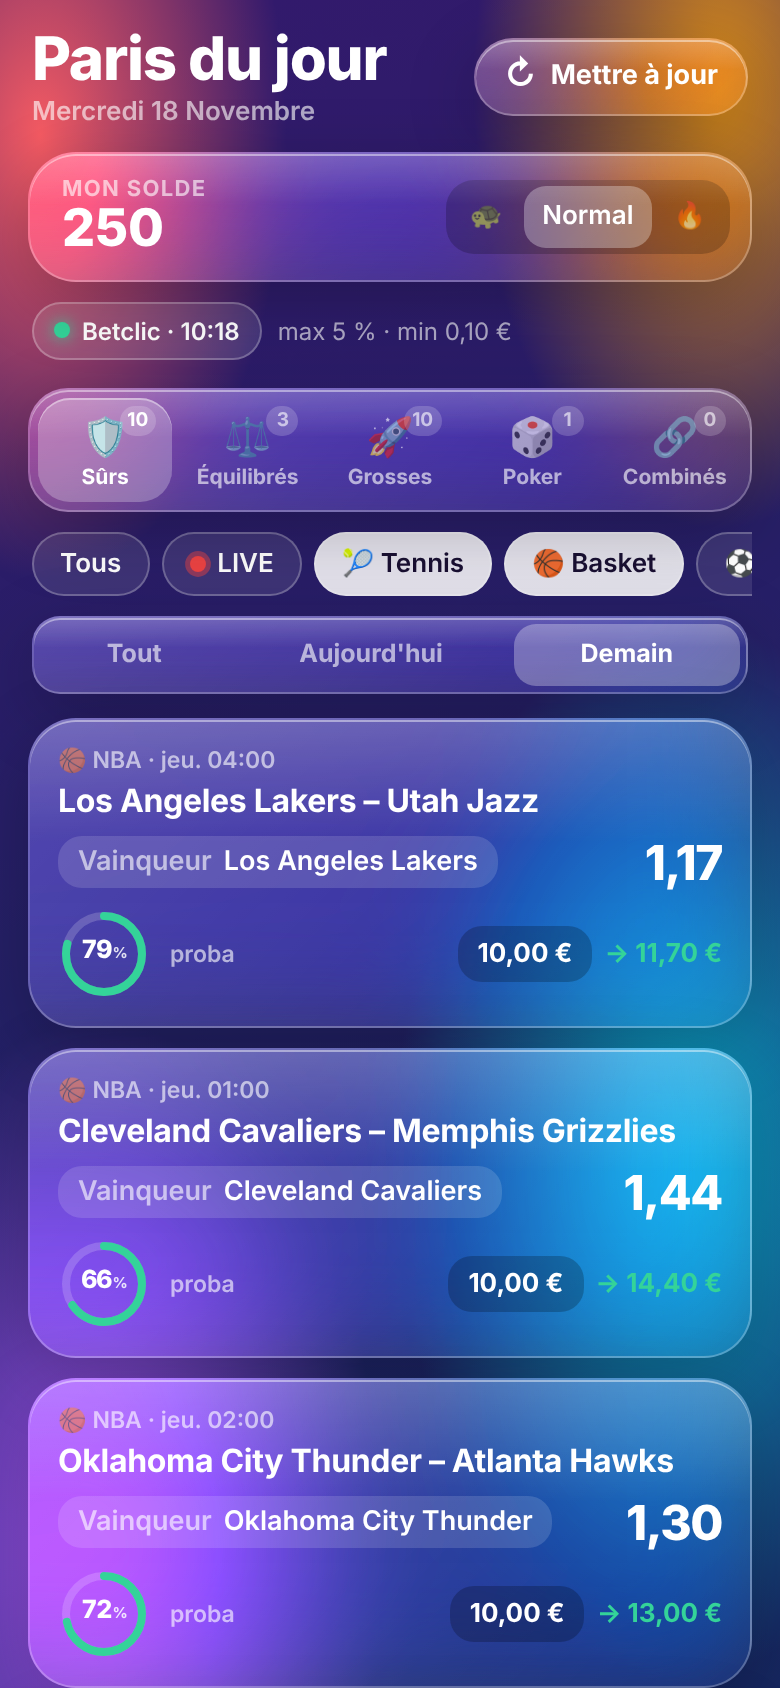
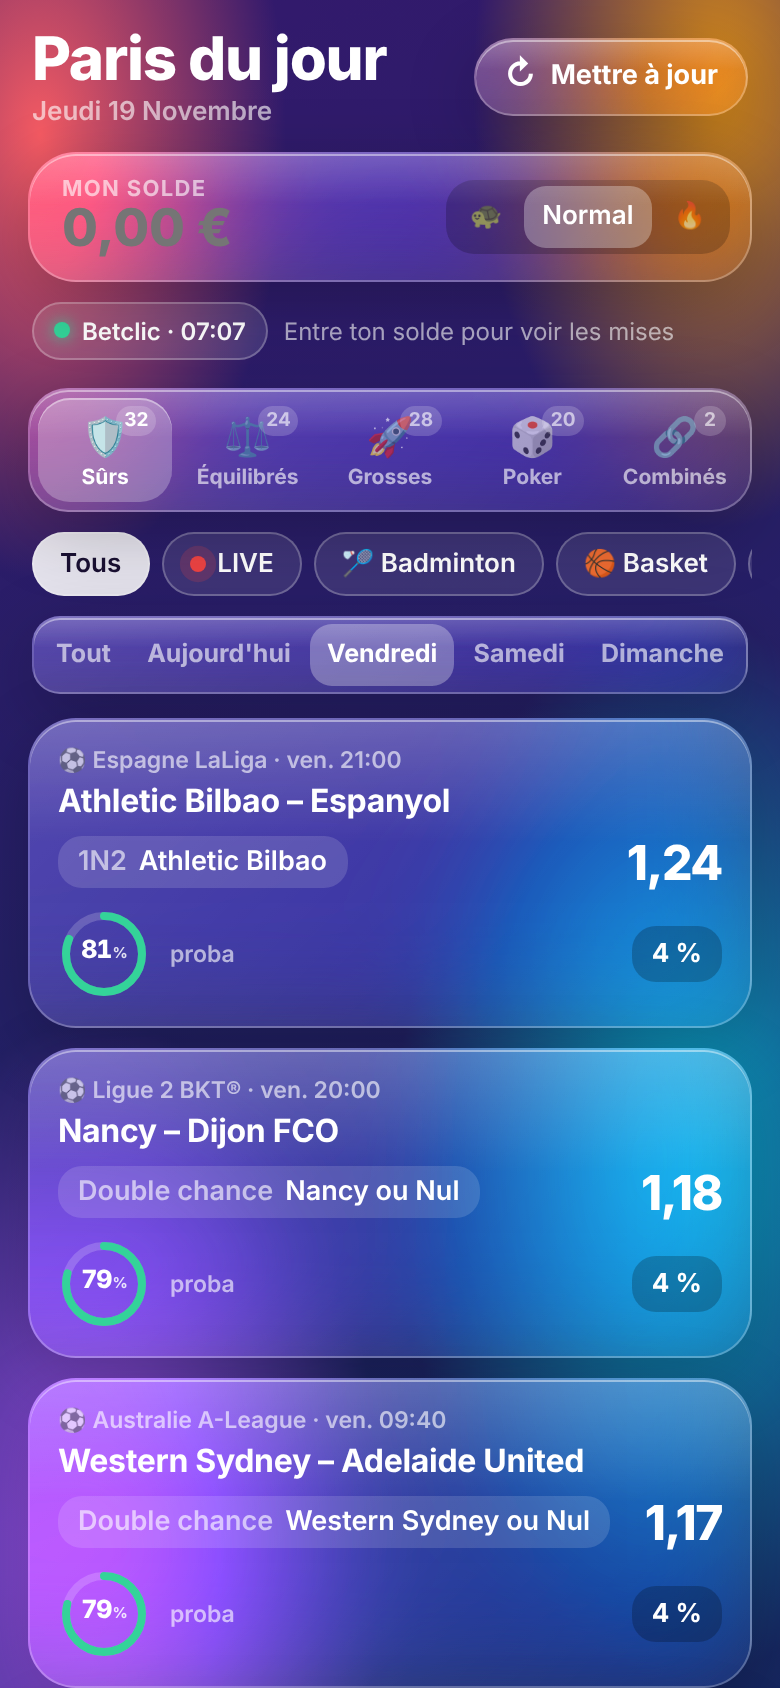
Puces dates ajustées, sport badminton

diff --git a/index.html b/index.html
@@ -76,7 +76,7 @@ h1{font-size:30px;letter-spacing:-.02em;margin:0;font-weight:800}
 .chip.live.on i{background:#fff}
 @keyframes pulse{0%{box-shadow:0 0 0 0 rgba(239,68,68,.7)}70%{box-shadow:0 0 0 7px rgba(239,68,68,0)}100%{box-shadow:0 0 0 0 rgba(239,68,68,0)}}
 .dates{display:flex;gap:2px;padding:3px;border-radius:14px;margin:0 2px 12px;overflow-x:auto;scrollbar-width:none}.dates::-webkit-scrollbar{display:none}
-.dates button{flex:1 0 auto;border:0;background:transparent;color:var(--muted);font-family:inherit;font-size:12.5px;font-weight:700;padding:8px 10px;border-radius:11px;cursor:pointer;white-space:nowrap}
+.dates button{flex:1 0 auto;border:0;background:transparent;color:var(--muted);font-family:inherit;font-size:12.5px;font-weight:700;padding:8px 7px;border-radius:11px;cursor:pointer;white-space:nowrap}
 .dates button.on{background:rgba(255,255,255,.3);color:#fff}
 .dates.off{opacity:.45;pointer-events:none}
 .tab{position:relative}.tab .n{position:absolute;top:4px;right:8px;min-width:16px;padding:0 4px;border-radius:8px;background:rgba(255,255,255,.18);font-size:9.5px;line-height:15px}
@@ -165,7 +165,7 @@ details ul{padding-left:18px;margin:6px 0}
 
 <script>
 const PCT={safe:4,bal:2.5,big:1,poker:0.5}, COL={safe:'var(--safe)',bal:'var(--bal)',big:'var(--big)',poker:'var(--poker)',combo:'var(--combo)'};
-const SP={football:'⚽',basketball:'🏀',tennis:'🎾',rugby_union:'🏉',rugby:'🏉'};
+const SP={football:'⚽',basketball:'🏀',tennis:'🎾',rugby_union:'🏉',rugby:'🏉',badminton:'🏸',handball:'🤾',ice_hockey:'🏒',volleyball:'🏐'};
 const MAX_PCT=5, MIN_STAKE=0.10, PAGE=10;
 const $=s=>document.querySelector(s);
 const eur=v=>v.toLocaleString('fr-FR',{style:'currency',currency:'EUR'});
@@ -261,8 +261,8 @@ function comboCard(c){
 }
 window.tog=(e,el)=>{if(e.target.closest('a'))return;el.classList.toggle('open')};
 
-const DUR={football:120,basketball:140,tennis:200,rugby_union:110,rugby:110};
-const LBL={football:'Foot',basketball:'Basket',tennis:'Tennis',rugby_union:'Rugby'};
+const DUR={football:120,basketball:140,tennis:200,rugby_union:110,rugby:110,badminton:70,handball:100,ice_hockey:150,volleyball:120};
+const LBL={football:'Foot',basketball:'Basket',tennis:'Tennis',rugby_union:'Rugby',badminton:'Badminton',handball:'Hand',ice_hockey:'Hockey',volleyball:'Volley'};
 const dayKey=d=>new Date(d).toLocaleDateString('fr-CA',{timeZone:'Europe/Paris'});
 function liveState(m,now){
   const st=new Date(m.start).getTime(), inWin=st<=now&&now<st+(DUR[m.sport]||120)*6e4, e=LIVE[m.id];

diff --git a/sw.js b/sw.js
@@ -1,4 +1,4 @@
-const CACHE='pdj-v5';
+const CACHE='pdj-v6';
 const SHELL=['./','index.html','manifest.json','icons/icon-180.png','icons/icon-192.png','icons/favicon.png'];
 self.addEventListener('install',e=>{e.waitUntil(caches.open(CACHE).then(c=>c.addAll(SHELL)));self.skipWaiting();});
 self.addEventListener('activate',e=>{e.waitUntil(caches.keys().then(ks=>Promise.all(ks.filter(k=>k!==CACHE).map(k=>caches.delete(k)))));self.clients.claim();});
